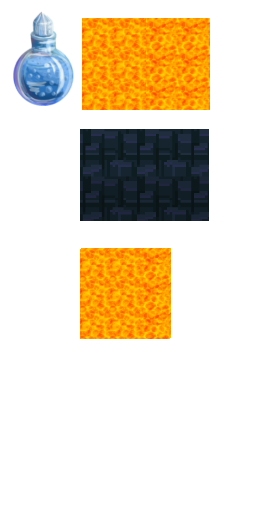
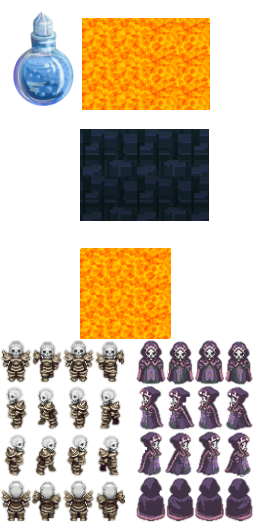
Added Boss Enemy

Changed region(s): [[0.5312, 0.6437, 1.0, 1.0], [0.0, 0.6437, 0.5, 1.0]]

diff --git a/src/Game/Entities/Creatures/BossEnemy.java b/src/Game/Entities/Creatures/BossEnemy.java
@@ -1,0 +1,214 @@
+package Game.Entities.Creatures;
+
+import Game.Entities.EntityBase;
+import Game.Inventories.Inventory;
+import Game.Items.Item;
+import Main.Handler;
+import Resources.Animation;
+import Resources.Images;
+
+import java.awt.*;
+import java.util.Random;
+
+/**
+ * Created by Elemental on 2/7/2017.
+ */
+public class BossEnemy extends CreatureBase  {
+
+
+    private Animation animDown, animUp, animLeft, animRight;
+
+    private Boolean attacking=false;
+
+    private int animWalkingSpeed = 150;
+    private Inventory Skelyinventory;
+    private Rectangle SkelyCam;
+
+    private int healthcounter =0;
+
+    private Random randint;
+    private int moveCount=0;
+    private int direction;
+    public Item QuestItem;
+
+    public BossEnemy(Handler handler, float x, float y, Item questItem) {
+        super(handler, x, y, 100, 100);
+        bounds.x=8*2;
+        bounds.y=18*2;
+        bounds.width=64;
+        bounds.height=80;
+        speed=1.7f;
+        health=80;
+        attack=8;
+        this.QuestItem = questItem;
+
+        SkelyCam= new Rectangle();
+
+
+
+        randint = new Random();
+        direction = randint.nextInt(4) + 1;
+
+        animDown = new Animation(animWalkingSpeed, Images.SmallBoss_front);
+        animLeft = new Animation(animWalkingSpeed,Images.SmallBoss_left);
+        animRight = new Animation(animWalkingSpeed,Images.SmallBoss_right);
+        animUp = new Animation(animWalkingSpeed,Images.SmallBoss_back);
+
+        Skelyinventory= new Inventory(handler);
+    }
+
+    @Override
+    public void tick() {
+        animDown.tick();
+        animUp.tick();
+        animRight.tick();
+        animLeft.tick();
+
+        moveCount ++;
+        if(moveCount>=60){
+            moveCount=0;
+            direction = randint.nextInt(4) + 1;
+        }
+        checkIfMove();
+
+        move();
+
+
+        if(isBeinghurt()){
+            healthcounter++;
+            if(healthcounter>=120){
+                setBeinghurt(false);
+                System.out.print(isBeinghurt());
+            }
+        }
+        if(healthcounter>=120&& !isBeinghurt()){
+            healthcounter=0;
+        }
+
+
+        Skelyinventory.tick();
+
+
+    }
+
+
+    private void checkIfMove() {
+        xMove = 0;
+        yMove = 0;
+
+        SkelyCam.x = (int) (x - handler.getGameCamera().getxOffset() - (64 * 3));
+        SkelyCam.y = (int) (y - handler.getGameCamera().getyOffset() - (64 * 3));
+        SkelyCam.width = 64 * 7;
+        SkelyCam.height = 64 * 7;
+
+        if (SkelyCam.contains(handler.getWorld().getEntityManager().getPlayer().getX() - handler.getGameCamera().getxOffset(), handler.getWorld().getEntityManager().getPlayer().getY() - handler.getGameCamera().getyOffset())
+                || SkelyCam.contains(handler.getWorld().getEntityManager().getPlayer().getX() - handler.getGameCamera().getxOffset() + handler.getWorld().getEntityManager().getPlayer().getWidth(), handler.getWorld().getEntityManager().getPlayer().getY() - handler.getGameCamera().getyOffset() + handler.getWorld().getEntityManager().getPlayer().getHeight())) {
+
+            Rectangle cb = getCollisionBounds(0, 0);
+            Rectangle ar = new Rectangle();
+            int arSize = 13;
+            ar.width = arSize;
+            ar.height = arSize;
+
+            if (lu) {
+                ar.x = cb.x + cb.width / 2 - arSize / 2;
+                ar.y = cb.y - arSize;
+            } else if (ld) {
+                ar.x = cb.x + cb.width / 2 - arSize / 2;
+                ar.y = cb.y + cb.height;
+            } else if (ll) {
+                ar.x = cb.x - arSize;
+                ar.y = cb.y + cb.height / 2 - arSize / 2;
+            } else if (lr) {
+                ar.x = cb.x + cb.width;
+                ar.y = cb.y + cb.height / 2 - arSize / 2;
+            }
+
+            for (EntityBase e : handler.getWorld().getEntityManager().getEntities()) {
+                if (e.equals(this))
+                    continue;
+                if (e.getCollisionBounds(0, 0).intersects(ar) && e.equals(handler.getWorld().getEntityManager().getPlayer())) {
+
+                    checkAttacks();
+                    return;
+                }
+            }
+
+
+            if (x >= handler.getWorld().getEntityManager().getPlayer().getX() - 8 && x <= handler.getWorld().getEntityManager().getPlayer().getX() + 8) {//nada
+
+                xMove = 0;
+            } else if (x < handler.getWorld().getEntityManager().getPlayer().getX()) {//move right
+
+                xMove = speed;
+
+            } else if (x > handler.getWorld().getEntityManager().getPlayer().getX()) {//move left
+
+                xMove = -speed;
+            }
+
+            if (y >= handler.getWorld().getEntityManager().getPlayer().getY() - 8 && y <= handler.getWorld().getEntityManager().getPlayer().getY() + 8) {//nada
+                yMove = 0;
+            } else if (y < handler.getWorld().getEntityManager().getPlayer().getY()) {//move down
+                yMove = speed;
+
+            } else if (y > handler.getWorld().getEntityManager().getPlayer().getY()) {//move up
+                yMove = -speed;
+            }
+
+
+        } else {
+
+
+            switch (direction) {
+                case 1://up
+                    yMove = -speed;
+                    break;
+                case 2://down
+                    yMove = speed;
+                    break;
+                case 3://left
+                    xMove = -speed;
+                    break;
+                case 4://right
+                    xMove = speed;
+                    break;
+
+            }
+        }
+    }
+
+
+    @Override
+    public void render(Graphics g) {
+        g.drawImage(getCurrentAnimationFrame(animDown,animUp,animLeft,animRight,Images.SmallBoss_front,Images.SmallBoss_back,Images.SmallBoss_left,Images.SmallBoss_right), (int) (x - handler.getGameCamera().getxOffset()), (int) (y - handler.getGameCamera().getyOffset()), width, height, null);
+        g.setColor(Color.BLACK);
+        g.drawRect((int)(x-handler.getGameCamera().getxOffset()-1),(int)(y-handler.getGameCamera().getyOffset()-21),80,11);
+        if(this.getHealth()>=55) {
+            g.setColor(Color.GREEN);
+            g.fillRect((int)(x-handler.getGameCamera().getxOffset()),(int)(y-handler.getGameCamera().getyOffset()-20),getHealth()+5,10);
+          
+
+        }else if(this.getHealth()>15 && getHealth()<55){
+            g.setColor(Color.YELLOW);
+            g.fillRect((int)(x-handler.getGameCamera().getxOffset()),(int)(y-handler.getGameCamera().getyOffset()-20),getHealth(),10);
+
+        }else if(this.getHealth() <= 15 ){
+            g.setColor(Color.RED);
+            g.fillRect((int)(x-handler.getGameCamera().getxOffset()),(int)(y-handler.getGameCamera().getyOffset()-20),getHealth(),10);
+
+        }
+        g.setColor(Color.white);
+        g.drawString("Health: " + getHealth(),(int)(x-handler.getGameCamera().getxOffset()),(int)(y-handler.getGameCamera().getyOffset()-10));
+
+    }
+
+
+
+
+    @Override
+    public void die() {
+    	 handler.getWorld().getItemManager().addItem(this.QuestItem.createNew((int)x + bounds.x,(int)y + bounds.y,1));
+
+    }
+}

diff --git a/src/Resources/Images.java b/src/Resources/Images.java
@@ -16,6 +16,7 @@ public class Images {
     private static final int Fwidth = 512, Fheight = 197;
     private static final int Batwidth = 50, Batheight = 40;
     private static final int Catwidth = 45, Catheight = 50;
+    private static final int Bosswidth = 30, Bossheight = 44;
     
     public static BufferedImage[] blocks;
     public static BufferedImage[] player_right;
@@ -34,6 +35,10 @@ public class Images {
     public static BufferedImage[] SkelyFriend_left;
     public static BufferedImage[] SkelyFriend_front;
     public static BufferedImage[] SkelyFriend_back;
+    public static BufferedImage[] SmallBoss_right;
+    public static BufferedImage[] SmallBoss_left;
+    public static BufferedImage[] SmallBoss_front;
+    public static BufferedImage[] SmallBoss_back;
     public static BufferedImage[] butstart;
     public static BufferedImage[] particleSmoke;
     public static BufferedImage[] items;
@@ -102,7 +107,12 @@ public class Images {
         SkelyFriend_right = new BufferedImage[4];
         SkelyFriend_front = new BufferedImage[4];
         SkelyFriend_back = new BufferedImage[4];
-
+        
+        SmallBoss_left = new BufferedImage[4];
+        SmallBoss_right = new BufferedImage[4];
+        SmallBoss_front = new BufferedImage[4];
+        SmallBoss_back = new BufferedImage[4];
+        
         butstart = new BufferedImage[3];
         particleSmoke = new BufferedImage[3];
         items = new BufferedImage[3];
@@ -349,6 +359,27 @@ public class Images {
             SkelyFriend_back[1]=Cavesheet.crop(88,364,Catwidth,Catheight);
             SkelyFriend_back[2]=Cavesheet.crop(135,364,Catwidth,Catheight);
             SkelyFriend_back[3]=Cavesheet.crop(183,364,Catwidth,Catheight);
+            
+            //Small Boss anim
+            SmallBoss_front[0]=World2.crop(135,339,Bosswidth,Bossheight);
+            SmallBoss_front[1]=World2.crop(165,339,Bosswidth,Bossheight);
+            SmallBoss_front[2]=World2.crop(194,339,Bosswidth,Bossheight);
+            SmallBoss_front[3]=World2.crop(225,339,Bosswidth,Bossheight);
+
+            SmallBoss_left[0]=World2.crop(135,384,Bosswidth,Bossheight);
+            SmallBoss_left[1]=World2.crop(165,384,Bosswidth,Bossheight);
+            SmallBoss_left[2]=World2.crop(194,384,Bosswidth,Bossheight);
+            SmallBoss_left[3]=World2.crop(225,384,Bosswidth,Bossheight);
+
+            SmallBoss_right[0]=World2.crop(135,431,Bosswidth,Bossheight);
+            SmallBoss_right[1]=World2.crop(165,431,Bosswidth,Bossheight);
+            SmallBoss_right[2]=World2.crop(194,431,Bosswidth,Bossheight);
+            SmallBoss_right[3]=World2.crop(225,431,Bosswidth,Bossheight);
+
+            SmallBoss_back[0]=World2.crop(135,476,Bosswidth,Bossheight);
+            SmallBoss_back[1]=World2.crop(165,476,Bosswidth,Bossheight);
+            SmallBoss_back[2]=World2.crop(194,476,Bosswidth,Bossheight);
+            SmallBoss_back[3]=World2.crop(225,476,Bosswidth,Bossheight);
             
 
         } catch (IOException e) {

diff --git a/src/Worlds/World2.java b/src/Worlds/World2.java
@@ -1,5 +1,6 @@
 package Worlds;
 import Game.Entities.Creatures.BatEnemy;
+import Game.Entities.Creatures.BossEnemy;
 import Game.Entities.Creatures.Player;
 import Game.Entities.Creatures.SkelyEnemy;
 import Game.Entities.Statics.Door;
@@ -26,9 +27,10 @@ public class World2 extends BaseWorld{
 
         
        
-       
-        entityManager.addEntity(new SkelyEnemy(handler, 1300, 1500,Item.fireRuneItem));
+        entityManager.addEntity(new BossEnemy(handler, 1300, 1500,Item.fireRuneItem));
+        entityManager.addEntity(new SkelyEnemy(handler, 1400, 500,Item.fireRuneItem));
         entityManager.addEntity(new SkelyEnemy(handler, 300, 1300,Item.HealthPotion));
+        
         
     }
 
